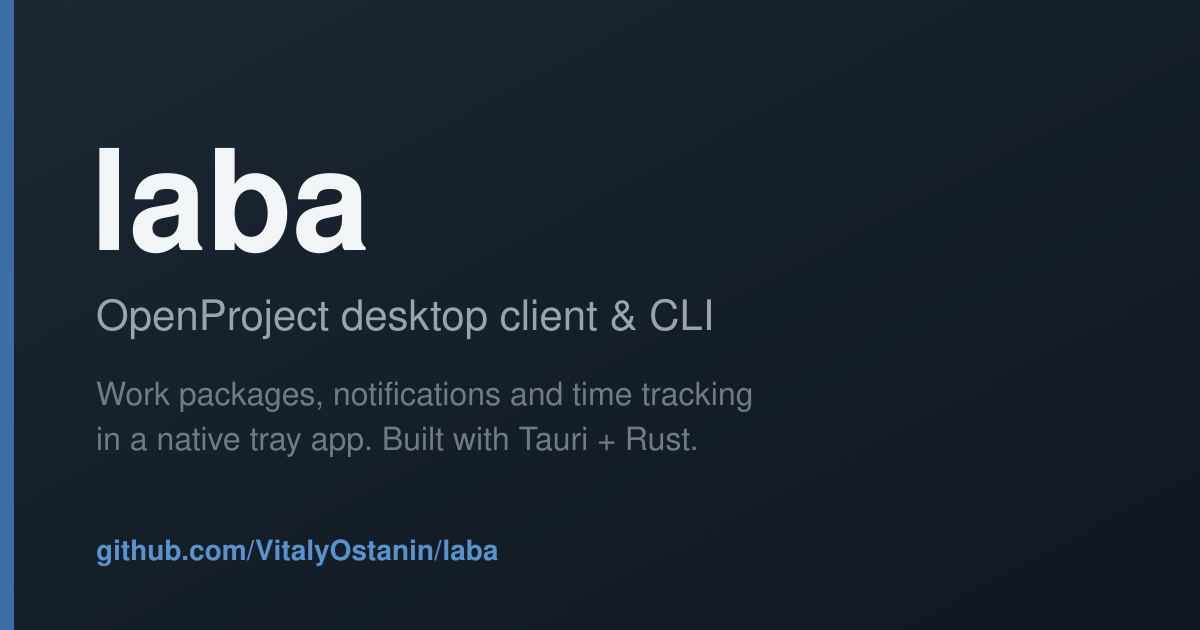
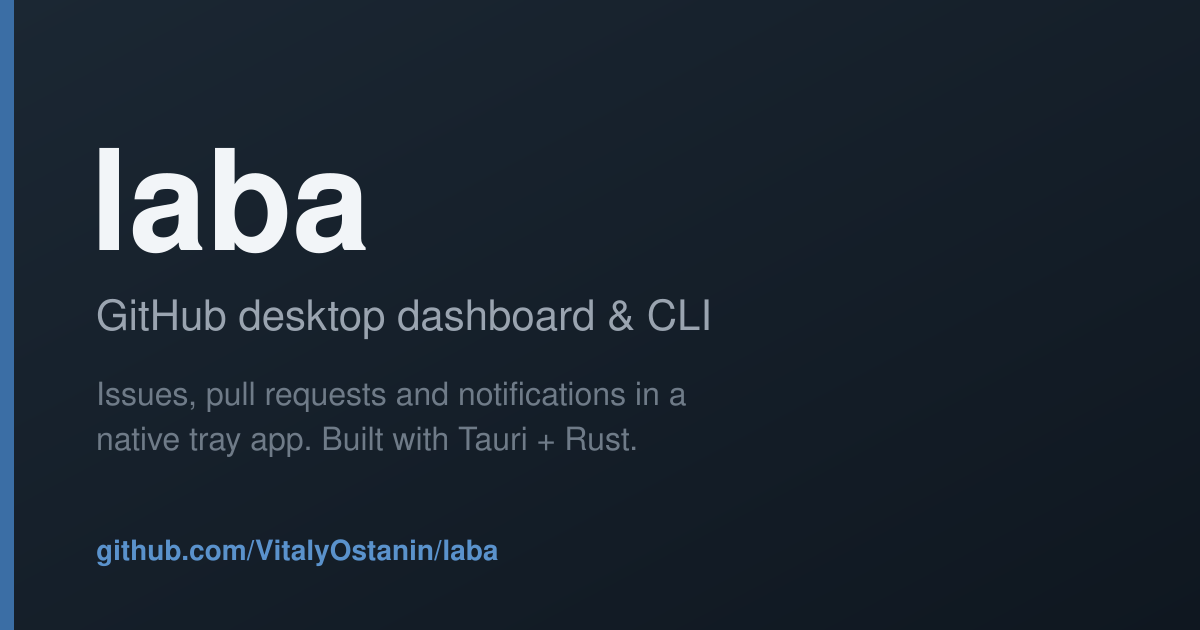
docs: reposition laba as GitHub-first
GitHub is the primary backend and the CLI default; lead the README, crate
metadata and the landing page with GitHub (issues, pull requests, notifications)
and present the pluggable multi-backend design with OpenProject as the one other
backend implemented so far. Regenerate the OG image to match.

Changed region(s): [[0.0617, 0.6032, 0.6475, 0.7238], [0.0925, 0.4524, 0.6167, 0.5429]]

diff --git a/site/index.html b/site/index.html
@@ -3,14 +3,14 @@
   <head>
     <meta charset="utf-8" />
     <meta name="viewport" content="width=device-width, initial-scale=1" />
-    <title>laba — OpenProject desktop client &amp; CLI (Tauri + Rust)</title>
+    <title>laba — GitHub desktop dashboard &amp; CLI (Tauri + Rust)</title>
     <meta
       name="description"
-      content="laba is an open-source desktop tray client and command-line interface for OpenProject, built with Tauri and Rust. Manage work packages, notifications and time tracking, and aggregate GitHub issues from one dashboard."
+      content="laba is an open-source desktop tray dashboard and command-line interface for GitHub — issues, pull requests and notifications in one place. Built with Tauri and Rust, with a pluggable multi-backend design (OpenProject also implemented)."
     />
     <meta
       name="keywords"
-      content="OpenProject desktop client, OpenProject CLI, OpenProject tray app, GitHub issues dashboard, Tauri, Rust, task management, project management"
+      content="GitHub desktop client, GitHub issues dashboard, GitHub notifications, GitHub pull requests, GitHub CLI, multi-backend task dashboard, Tauri, Rust"
     />
     <link rel="canonical" href="https://vitalyostanin.github.io/laba/" />
     <link rel="icon" type="image/png" href="favicon.png" />
@@ -19,13 +19,10 @@
     <!-- Open Graph -->
     <meta property="og:type" content="website" />
     <meta property="og:site_name" content="laba" />
-    <meta
-      property="og:title"
-      content="laba — OpenProject desktop client & CLI"
-    />
+    <meta property="og:title" content="laba — GitHub desktop dashboard & CLI" />
     <meta
       property="og:description"
-      content="Open-source desktop tray client and CLI for OpenProject, built with Tauri and Rust. Work packages, notifications, time tracking, and GitHub issues in one dashboard."
+      content="Open-source desktop tray dashboard and CLI for GitHub — issues, pull requests and notifications in one place. Built with Tauri and Rust; pluggable multi-backend design."
     />
     <meta property="og:url" content="https://vitalyostanin.github.io/laba/" />
     <meta
@@ -39,11 +36,11 @@
     <meta name="twitter:card" content="summary_large_image" />
     <meta
       name="twitter:title"
-      content="laba — OpenProject desktop client & CLI"
+      content="laba — GitHub desktop dashboard & CLI"
     />
     <meta
       name="twitter:description"
-      content="Open-source desktop tray client and CLI for OpenProject, built with Tauri and Rust."
+      content="Open-source desktop tray dashboard and CLI for GitHub — issues, pull requests and notifications. Built with Tauri and Rust."
     />
     <meta
       name="twitter:image"
@@ -56,7 +53,7 @@
         "@context": "https://schema.org",
         "@type": "SoftwareApplication",
         "name": "laba",
-        "description": "Open-source desktop tray client and command-line interface for OpenProject, built with Tauri and Rust. Work packages, notifications, time tracking, and GitHub issues in one dashboard.",
+        "description": "Open-source desktop tray dashboard and command-line interface for GitHub — issues, pull requests and notifications in one place. Built with Tauri and Rust, with a pluggable multi-backend design (OpenProject also implemented).",
         "applicationCategory": "DeveloperApplication",
         "operatingSystem": "Linux, Windows, macOS",
         "url": "https://vitalyostanin.github.io/laba/",
@@ -208,8 +205,9 @@
       <div class="wrap">
         <h1>laba</h1>
         <p class="tagline">
-          Desktop tray client and command-line interface for
-          <a href="https://www.openproject.org/">OpenProject</a> — built with
+          Desktop tray dashboard and command-line interface for
+          <a href="https://github.com/">GitHub</a> — issues, pull requests and
+          notifications in one place. Built with
           <a href="https://tauri.app/">Tauri</a> and a shared Rust core.
         </p>
         <div class="cta">
@@ -225,7 +223,7 @@
         <img
           class="shot"
           src="screenshot-dashboard.png"
-          alt="laba dashboard showing OpenProject work packages and notifications"
+          alt="laba dashboard showing GitHub issues, pull requests and notifications"
           width="900"
           loading="lazy"
         />
@@ -237,31 +235,34 @@
         <h2>What it does</h2>
         <div class="grid">
           <div class="feature">
-            <h3>Native desktop tray app</h3>
+            <h3>GitHub in your tray</h3>
             <p>
-              Work packages, notifications and logged time for OpenProject in a
-              small tray application for Linux, Windows and macOS.
+              Your GitHub issues, pull requests and notifications in a small
+              tray application for Linux, Windows and macOS. Uses the
+              <code>gh</code> CLI, so no extra token setup.
             </p>
           </div>
           <div class="feature">
             <h3>Scriptable CLI</h3>
             <p>
               A <code>laba</code> command-line binary with JSON output by
-              default, for automation and scripting against the OpenProject API.
+              default, for automation and scripting — GitHub is the default
+              backend.
             </p>
           </div>
           <div class="feature">
-            <h3>Multiple backends</h3>
+            <h3>Pluggable backends</h3>
             <p>
-              Several OpenProject servers with a selectable default, and GitHub
-              issues and notifications aggregated in the same dashboard.
+              One dashboard and CLI over a multi-backend design. Besides GitHub,
+              OpenProject is implemented too; more trackers (Jira, YouTrack,
+              GitLab, …) fit the same facade.
             </p>
           </div>
           <div class="feature">
             <h3>Open source</h3>
             <p>
               MIT-licensed, a single Rust workspace. The desktop app talks to
-              the OpenProject API directly through the core library.
+              each backend directly through the core library.
             </p>
           </div>
         </div>
@@ -271,9 +272,8 @@
     <section>
       <div class="wrap">
         <h2>Get started</h2>
-        <p>Command-line interface:</p>
-        <pre><code>laba server add my-op https://op.example
-laba auth login --server my-op
+        <p>Command-line interface (GitHub is the default backend):</p>
+        <pre><code>laba server add gh github.com
 laba wp list</code></pre>
         <p>
           The desktop app is distributed as release builds (including a Debian
@@ -288,7 +288,7 @@ laba wp list</code></pre>
 
     <footer>
       <div class="wrap">
-        laba — open-source OpenProject desktop client &amp; CLI ·
+        laba — open-source GitHub desktop dashboard &amp; CLI ·
         <a href="https://github.com/VitalyOstanin/laba">GitHub</a> · MIT License
       </div>
     </footer>

diff --git a/README.md b/README.md
@@ -1,14 +1,20 @@
 # laba
 
-**laba** is a desktop tray client and command-line interface (CLI) for
-[OpenProject](https://www.openproject.org/), built on
-[Tauri](https://tauri.app/) with a shared Rust core. It brings OpenProject work
-packages, notifications and time tracking to a native desktop app and a
-scriptable CLI, and can also aggregate GitHub issues and notifications from the
-same dashboard.
+**laba** is a desktop tray dashboard and command-line interface (CLI) for
+[GitHub](https://github.com/) — it brings your GitHub issues, pull requests and
+notifications into one native app and a scriptable CLI. Built on
+[Tauri](https://tauri.app/) with a shared Rust core.
 
-Keywords: OpenProject desktop client, OpenProject CLI, OpenProject tray app,
-GitHub issues dashboard, Rust, Tauri.
+It is designed around a pluggable, multi-backend architecture: the same
+dashboard and CLI can talk to different trackers. GitHub is the primary backend
+and the CLI default. Besides GitHub, [OpenProject](https://www.openproject.org/)
+is the only other backend implemented so far; the author no longer uses
+OpenProject, so that backend is kept working but is not actively developed.
+Support for more trackers (Jira, YouTrack, GitLab, …) is a planned extension of
+the same design.
+
+Keywords: GitHub desktop client, GitHub issues dashboard, GitHub notifications,
+GitHub pull requests, multi-backend task dashboard, Rust, Tauri.
 
 Website: <https://vitalyostanin.github.io/laba/>
 
@@ -45,26 +51,29 @@ captures it with ffmpeg).
 ## Goals
 
 - A single Rust workspace providing:
-  - a **core** library — OpenProject API v3 client (authentication, HAL
-    normalization, credential storage, configuration);
+  - a **core** library — a backend facade over GitHub (through the `gh` CLI) and
+    OpenProject (API v3), with credential storage, caching and configuration;
   - a **CLI** binary for scripting and automation (JSON output by default);
   - a **desktop tray application** (Tauri) for Windows, macOS and Linux.
-- The desktop application talks to the OpenProject API directly through the
-  core library — it does not shell out to the CLI.
+- The desktop application talks to each backend directly through the core
+  library — it does not shell out to the CLI.
+- A pluggable backend design so more trackers can be added behind the same
+  dashboard and CLI.
 
 ## Planned capabilities
 
-- Work packages, comments, attachments, relations, time entries and
-  notifications.
-- Multiple OpenProject servers with a selectable default; per-server
-  credentials and proxy settings (SOCKS5 / HTTP).
-- Tray summaries for assigned work packages and logged time.
+- GitHub issues, pull requests and notifications aggregated per account.
+- Multiple servers of either backend with a selectable default; per-server
+  settings and proxy (SOCKS5 / HTTP).
+- Tray summaries for assigned items and, on OpenProject, logged time.
+- Additional backends (Jira, YouTrack, GitLab, …) as extensions of the same
+  facade.
 
 ## Repository layout
 
 | Path         | Crate / package  | Contents                                          |
 |--------------|------------------|---------------------------------------------------|
-| `core/`      | `laba-core`| OpenProject API client, config, cache, timelog    |
+| `core/`      | `laba-core`| Backend clients (GitHub, OpenProject), config, cache, timelog |
 | `cli/`       | `laba-cli` | `laba` command-line binary                  |
 | `gui/`       | —                | SvelteKit frontend                                |
 | `gui/src-tauri/` | `laba-gui` | Tauri desktop shell (Rust)                     |
@@ -108,10 +117,15 @@ scripts/tauri-container.sh 'cd gui && npm ci && npm run lint && npm run format:c
 ## Running
 
 ```sh
-# CLI: log in to a server, then list your work packages.
-cargo run -p laba-cli -- server add my-op https://op.example
-cargo run -p laba-cli -- auth login --server my-op
+# CLI: add a GitHub server (the default backend; uses the `gh` CLI, no token),
+# then list your items.
+cargo run -p laba-cli -- server add gh github.com
 cargo run -p laba-cli -- wp list
+
+# OpenProject works the same way with an explicit backend and a token login:
+cargo run -p laba-cli -- server add my-op https://op.example --backend openproject
+cargo run -p laba-cli -- auth login --server my-op
+cargo run -p laba-cli -- wp list --server my-op
 
 # GUI in development (hot reload), inside the container:
 scripts/tauri-container.sh 'cd gui && npm ci && npm run tauri dev'